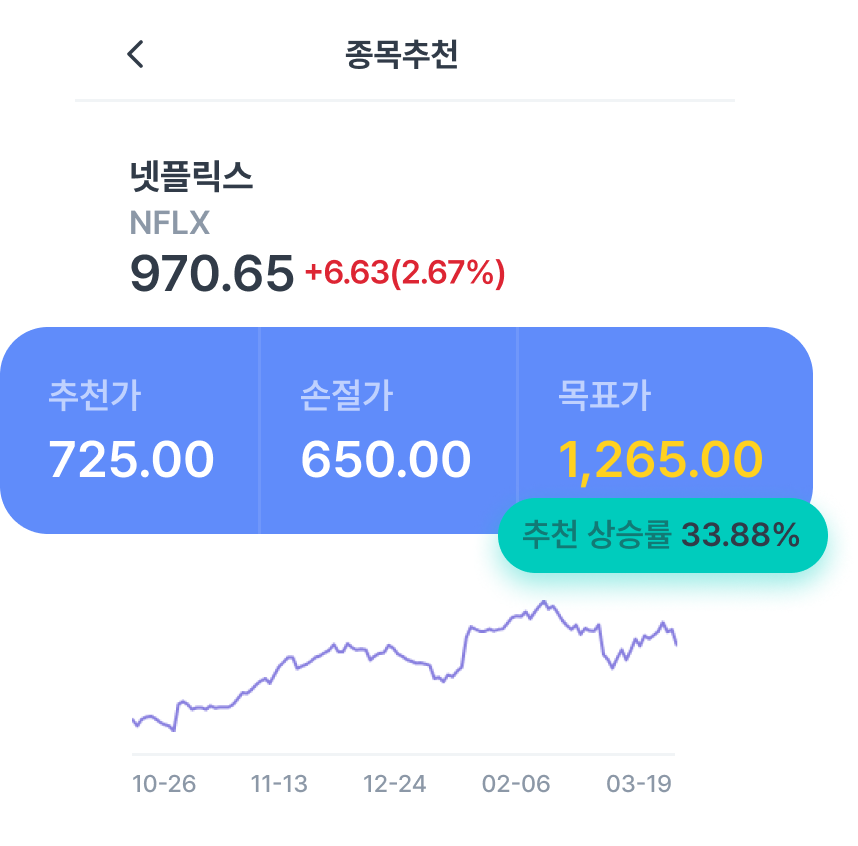
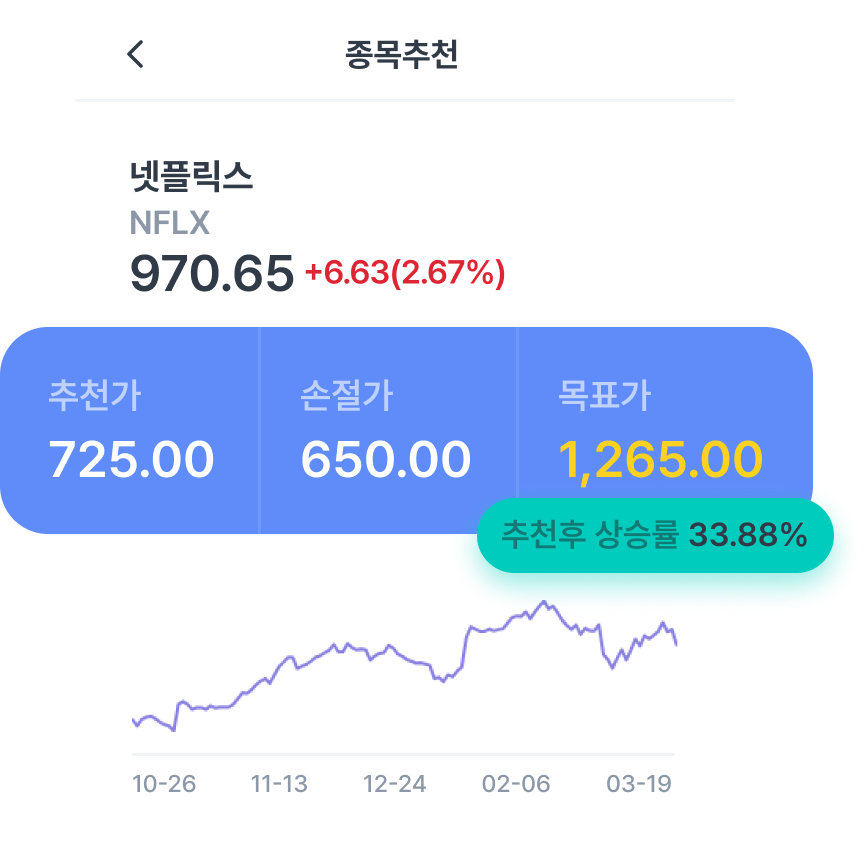
추천후 상승률 이미지 변경

diff --git a/search/searching_onestop.html b/search/searching_onestop.html
@@ -589,8 +589,7 @@
                                 <div class="matrix_txt">
                                     <p class="txt">밸류에이션은 높지만 스마트스코어도 높은 성장주 중심 투자는 미래 성장 가치에 베팅하는 전략입니다.
                                         <br><br>
-                                        고평가에 따른 하락 리스크를 줄이기 위해 밸류에이션이 상대적으로 낮은 우량 가치주를 일부 편입하여 포트폴리오의 변동성을 낮추고 안정성을 강화하는
-                                        것이 바람직합니다.
+                                        고평가에 따른 하락 리스크를 줄이기 위해 밸류에이션이 상대적으로 낮은 우량 가치주를 일부 편입하여 포트폴리오의 변동성을 낮추고 안정성을 강화하는 것은 어떨까요?
                                     </p>
                                     <p class="txt_sub">*원스톱진단 이용자의 58.54%가 성장주 투자전략 투자자</p>
                                 </div>
